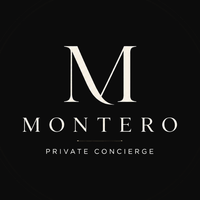
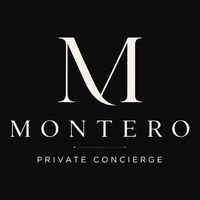
Знак в шапке крупнее и чётче, край квадрата очерчен

diff --git a/index.html b/index.html
@@ -8,7 +8,7 @@
 <link rel="preconnect" href="https://fonts.googleapis.com">
 <link rel="preconnect" href="https://fonts.gstatic.com" crossorigin>
 <link rel="stylesheet" href="https://fonts.googleapis.com/css2?family=Libertinus+Serif:ital,wght@0,400;0,600;0,700;1,400&family=Cormorant+Garamond:ital,wght@0,300;0,400;0,500;0,600;1,300;1,400&family=Cinzel:wght@400;500;600&family=Barlow:wght@300;400;500;600&family=Commissioner:wght@300;400;500;600&display=swap">
-<link rel="stylesheet" href="assets/css/style.css?v=21749651">
+<link rel="stylesheet" href="assets/css/style.css?v=f592b618">
 </head>
 <body>
 
@@ -18,9 +18,9 @@
 <header class="nav" id="nav">
   <div class="nav-in">
     <a class="brand" href="#home" data-scroll aria-label="На главную" data-i18n-aria="aria.home">
-      <img class="brand-mark" src="assets/img/mark-128.png?v=6a82bade"
-           srcset="assets/img/mark-88.png?v=86f1b684 88w, assets/img/mark-108.png?v=5284364e 108w, assets/img/mark-128.png?v=6a82bade 128w, assets/img/mark-160.png?v=7823952c 160w, assets/img/mark-200.png?v=3133f19a 200w, assets/img/mark-260.png?v=659b82dd 260w, assets/img/mark-360.png?v=ca3db383 360w"
-           sizes="(max-width:540px) 48px, 54px"
+      <img class="brand-mark" src="assets/img/mark-128.png?v=65818f04"
+           srcset="assets/img/mark-88.png?v=f5993a78 88w, assets/img/mark-108.png?v=947cf2f6 108w, assets/img/mark-128.png?v=65818f04 128w, assets/img/mark-160.png?v=2c297517 160w, assets/img/mark-200.png?v=c931f7dc 200w, assets/img/mark-260.png?v=412dcffc 260w, assets/img/mark-360.png?v=40a44c89 360w"
+           sizes="(max-width:540px) 60px, 72px"
            alt="Montero Private Concierge" width="512" height="512" decoding="async">
     </a>
 
@@ -651,8 +651,8 @@
         <p data-i18n="conc.p3">Конфиденциально. Персонально. Без лишних звонков, переписок и потери времени.</p>
         <p class="conc-start" data-i18n-html="conc.p4"><b>Всё начинается с одного сообщения.</b><br>Расскажите, что вам нужно. Даже если вы пока не знаете, кто именно может решить ваш вопрос, — это уже наша задача.</p>
         <div class="conc-sig">
-          <img class="seal-lg" src="assets/img/seal-160.png?v=7823952c"
-           srcset="assets/img/seal-88.png?v=86f1b684 88w, assets/img/seal-120.png?v=c7e49a64 120w, assets/img/seal-160.png?v=7823952c 160w, assets/img/seal-200.png?v=3133f19a 200w, assets/img/seal-260.png?v=659b82dd 260w, assets/img/seal-360.png?v=ca3db383 360w, assets/img/seal-512.png?v=ded94e57 512w"
+          <img class="seal-lg" src="assets/img/seal-160.png?v=2c297517"
+           srcset="assets/img/seal-88.png?v=f5993a78 88w, assets/img/seal-120.png?v=1f1af571 120w, assets/img/seal-160.png?v=2c297517 160w, assets/img/seal-200.png?v=c931f7dc 200w, assets/img/seal-260.png?v=412dcffc 260w, assets/img/seal-360.png?v=40a44c89 360w, assets/img/seal-512.png?v=37943757 512w"
            sizes="84px"
            alt="" width="512" height="512" decoding="async">
           <span class="conc-sig-t"><b data-i18n-html="conc.signName"><span class="sl">№1 консьерж-сервис от Северной</span> <span class="sl">до Южной Америки</span></b></span>
@@ -735,8 +735,8 @@
 <footer class="foot">
   <div class="shell foot-in">
     <div class="foot-brand">
-      <img class="seal" src="assets/img/seal-160.png?v=7823952c"
-           srcset="assets/img/seal-88.png?v=86f1b684 88w, assets/img/seal-120.png?v=c7e49a64 120w, assets/img/seal-160.png?v=7823952c 160w, assets/img/seal-200.png?v=3133f19a 200w, assets/img/seal-260.png?v=659b82dd 260w, assets/img/seal-360.png?v=ca3db383 360w, assets/img/seal-512.png?v=ded94e57 512w"
+      <img class="seal" src="assets/img/seal-160.png?v=2c297517"
+           srcset="assets/img/seal-88.png?v=f5993a78 88w, assets/img/seal-120.png?v=1f1af571 120w, assets/img/seal-160.png?v=2c297517 160w, assets/img/seal-200.png?v=c931f7dc 200w, assets/img/seal-260.png?v=412dcffc 260w, assets/img/seal-360.png?v=40a44c89 360w, assets/img/seal-512.png?v=37943757 512w"
            sizes="44px"
            alt="" width="512" height="512" decoding="async">
       <span data-i18n-html="foot.brand">Время <em>—</em> высшая форма роскоши, о которой мы позаботимся</span>
@@ -753,8 +753,8 @@
 <!-- ════════ ВЫБОР ЯЗЫКА ════════ -->
 <div class="lang-gate" id="langGate" role="dialog" aria-modal="true" aria-labelledby="langTitle" hidden>
   <div class="lang-in">
-    <img class="lang-seal" src="assets/img/seal-160.png?v=7823952c"
-           srcset="assets/img/seal-88.png?v=86f1b684 88w, assets/img/seal-120.png?v=c7e49a64 120w, assets/img/seal-160.png?v=7823952c 160w, assets/img/seal-200.png?v=3133f19a 200w, assets/img/seal-260.png?v=659b82dd 260w, assets/img/seal-360.png?v=ca3db383 360w, assets/img/seal-512.png?v=ded94e57 512w"
+    <img class="lang-seal" src="assets/img/seal-160.png?v=2c297517"
+           srcset="assets/img/seal-88.png?v=f5993a78 88w, assets/img/seal-120.png?v=1f1af571 120w, assets/img/seal-160.png?v=2c297517 160w, assets/img/seal-200.png?v=c931f7dc 200w, assets/img/seal-260.png?v=412dcffc 260w, assets/img/seal-360.png?v=40a44c89 360w, assets/img/seal-512.png?v=37943757 512w"
            sizes="62px"
            alt="" width="512" height="512" decoding="async">
     <h2 id="langTitle" data-i18n="lang.title">Выберите язык</h2>

diff --git a/assets/css/style.css b/assets/css/style.css
@@ -269,9 +269,15 @@ h4{ font-size:clamp(19px,2vw,24px); letter-spacing:0; }
   display:block; flex:none; height:auto;
   filter:drop-shadow(0 2px 6px rgba(0,0,0,.5));
 }
+/* Чёрная эмаль знака и почти чёрный фон страницы различаются на
+   несколько тонов, и грань квадрата тонула. Волосяной светлый кант
+   очерчивает её — форма читается, золота при этом нет.          */
+.brand-mark,.seal,.seal-lg,.lang-seal{ border:1px solid rgba(232,225,209,.20); }
 /* В шапке знак стоит один, без надписи рядом: имя набрано
-   внутри круга, и дублировать его словом было бы лишним. */
-.brand-mark{ width:54px; }
+   внутри квадрата, и дублировать его словом было бы лишним.
+   72 пикселя вместо прежних 54 — на них разбирается и подпись
+   «Private Concierge» под именем.                          */
+.brand-mark{ width:72px; }
 .seal{ width:44px; }
 .foot-brand .seal{ width:38px; }
 .seal-lg{ width:84px; }
@@ -1427,6 +1433,8 @@ h4{ font-size:clamp(19px,2vw,24px); letter-spacing:0; }
   .nav-links{ display:none; }
   .burger{ display:block; }
   :root{ --navh:70px; }
+  /* Шапка здесь ниже на десять пикселей, и знак в 72 из неё вылезал. */
+  .brand-mark{ width:60px; }
 
   /* сцены нет — описание раскрывается в строке */
   .svc-grid{ grid-template-columns:1fr; }
@@ -1492,7 +1500,7 @@ h4{ font-size:clamp(19px,2vw,24px); letter-spacing:0; }
    вместо того, чтобы обрезаться флексом. */
 @media (max-width:540px){
   .nav-in{ gap:12px; }
-  .brand-mark{ width:48px; }
+  .brand-mark{ width:60px; }
 }
 
 /* На самых узких экранах шапку делят эмблема, язык, кнопка и бургер —
